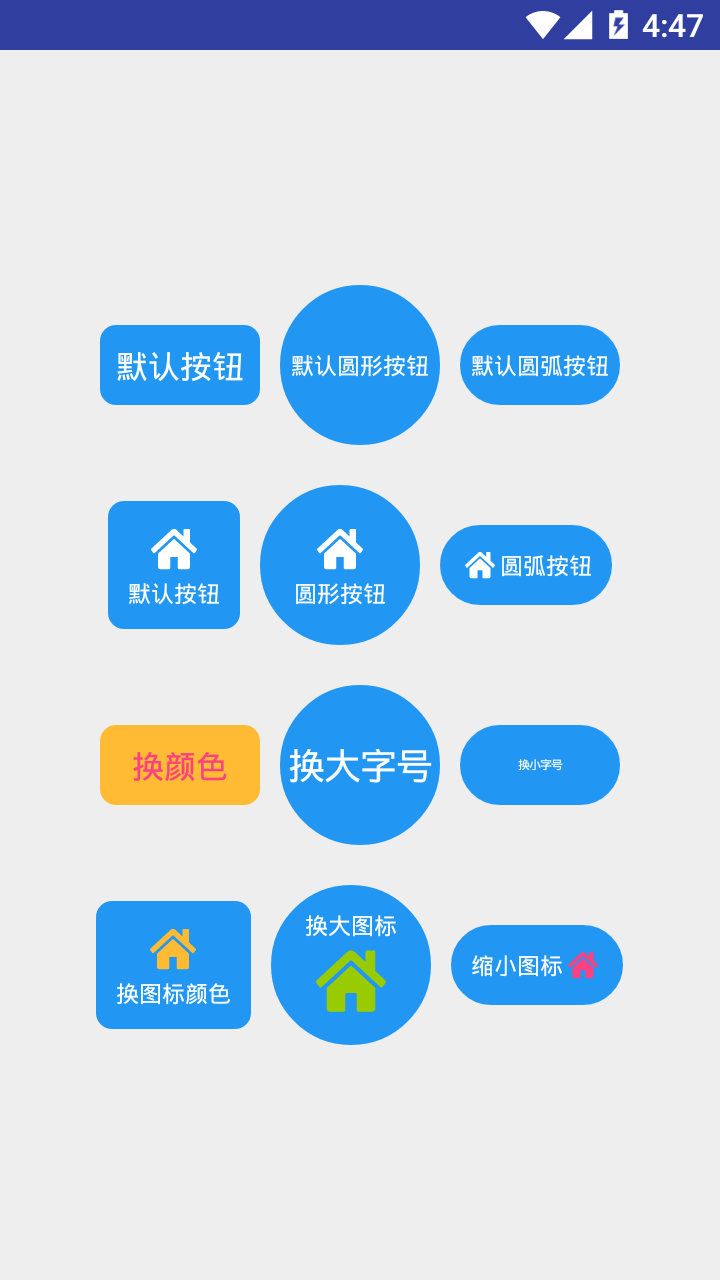
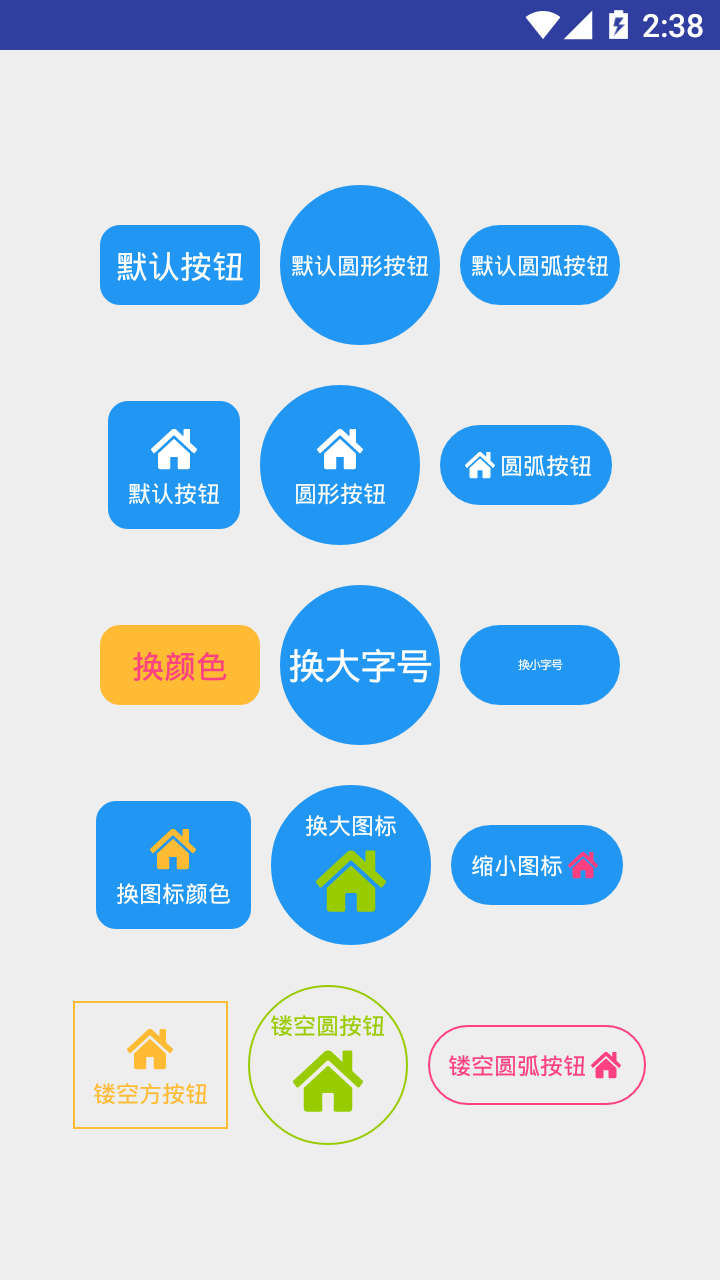
button 完成

diff --git a/compoments/button.md b/compoments/button.md
@@ -44,28 +44,60 @@
                                                 app:text_dimen="@dimen/sp_10"
                                                 android:layout_height="wrap_content"/>
 ```
-
 !> **直接输入icon的res即可显示图标按钮**
+
+> 镂空按钮：
+
+```xml
+   <com.stormkid.kui_base.button.KuiButton android:layout_width="wrap_content"
+                                                app:text="镂空方按钮"
+                                                app:is_stroke="true"
+                                                app:bg_color="@android:color/holo_orange_light"
+                                                app:icon_res="@drawable/ic_home"
+                                                app:icon_color="@android:color/holo_orange_light"
+                                                app:text_dimen="@dimen/sp_10"
+                                                app:text_color="@android:color/holo_orange_light"
+                                                app:bg_radius="0px"
+                                                android:layout_height="wrap_content"/>
+```
+!> **在镂空状态下设置按钮背景其实是边框颜色，背景色统一透明**
+
 
 > Attrs
 
 | AttrName  | Type | DefultValue    | Remark  |
 |-------|---|-----------|-------|
-| image_dimen  | dimention | 20dp     | 图标宽高 |
-| left_image_icon | resource  | 0     | 左图标   |
-| left_icon_color  | resource   | white | 左图标颜色     |
-| right_image_icon | resource  | 0     | 右图标   |
-| right_icon_color  | resource   | white | 右图标颜色     |
-| title_text  | string   | "" | 主标题/主显示文字     |
-| title_size  | dimention   | 14sp | 主标题/主显示文字字号     |
-| title_color  | resource   | #666 | 主标题/主显示文字颜色     |
-| title_gravity  | enum   | CENTER | 主标题文字位置【LEFT/RIGHT/CENTER】 |
-| content_text  | string    | "" | 小标题文字内容     |
-| content_size  | dimention   | true |  小标题文字字体大小    |
-| content_color  | resource   | #999 |  小标题文字字体颜色     |
-| is_nav_bar  | boolean   | true | 是否是标题栏     |
-| is_right_text  | boolean   | false | 是否使用小标题当右侧点击功能按钮 |
+| icon_dimen  | dimention | 28dp     | 图标宽高 |
+| icon_res | resource  | 0     | 图标资源   |
+| icon_color  | resource   | white | 图标颜色     |
+| icon_gravity | enum  | TOP     | 图标相对于文字的方向【TOP/LEFT/RIGHT/BOTTOM】   |
+| text  | string   | "" |  button的文字     |
+| text_dimen  | dimention   | 13sp |   button文字的字号大小   |
+| text_color  | resource   | #fff | button文字颜色   |
+| bg_drawable  | enum   | radius | button背景类型，一般默认为带圆角背景【radius/circle/round】 |
+| ignore_padding  | boolean    | false | 是否取消默认间距     |
+| bg_color  | resource   | resource |  button背景色    |
+| bg_radius  | dimension   | 5dp |  button圆弧半径     |
+| is_stroke  | boolean   | false | 是否镂空     |
+
+
+> Fun
+
+| FunctionName|Params  | ParamsType    | Remark  |
+|-------|-----|------|-------|
+| setText | text  | String    |  设置button文字 |
+| setIconRes| imgRes  | @DrawableRes Int    |  设置图标资源  |
+| setIconDimen| dimen  | Float    | 设置图标资源  |
+| setIconResColor| src,res  | @DrawableRes Int,@ColorRes Int    | 当is_right_text="true"的时候控制右侧小标题文字点击事件  |
+| setRadius | dimen  | Float    | 设置button倒角圆弧尺寸  |
+| setTextSize | size  | Float    | 设置button字体大小  |
+| setBgType | bg  | Int    | 设置背景类型【radiusType,cicrleType,roundType】 |
+| setBgColor | bgColor  | @ColorInt Int | 设置backgroundColor |
+
+
+
 ------------------------
+
 
 >效果图：
 

diff --git a/compoments/toolbar.md b/compoments/toolbar.md
@@ -60,13 +60,13 @@
 | setRightTextClick| listener  | OnClickListener    | 当is_right_text="true"的时候控制右侧小标题文字点击事件  |
 | setTitle | titleText  | String    | 设置大标题  |
 | setContent | contentText  | String    | 设置小标题  |
-| setLeftIcon | icon  | DrawableInt    | 设置左图标 png/jpg调用 |
-| setRightIcon | icon  | DrawableInt    | 设置右图标 png/jpg调用 |
-| setLeftIconResColor | res, color  | DrawableInt , ColorInt   | 设置左图标和图标颜色 svg调用 |
-| setRightIconResColor | res, color  | DrawableInt ,ColorInt   |  设置左图标和图标颜色 svg调用 |
-| setTitleColor | color  | ColorInt    | 设置主标题字体颜色 |
+| setLeftIcon | icon  | @DrawableRes Int    | 设置左图标 png/jpg调用 |
+| setRightIcon | icon  | @DrawableRes Int    | 设置右图标 png/jpg调用 |
+| setLeftIconResColor | res, color  | @DrawableRes Int , @ColorRes Int   | 设置左图标和图标颜色 svg调用 |
+| setRightIconResColor | res, color  | @DrawableRes Int ,@ColorRes Int   |  设置左图标和图标颜色 svg调用 |
+| setTitleColor | color  | @ColorRes Int    | 设置主标题字体颜色 |
 | setTitileSize | size  | Float    | 设置主标题字体大小 |
-| setContentColor | color  | ColorInt    | 设置副标题字体颜色 |
+| setContentColor | color  | @ColorRes Int    | 设置副标题字体颜色 |
 
 ------------------------
 
